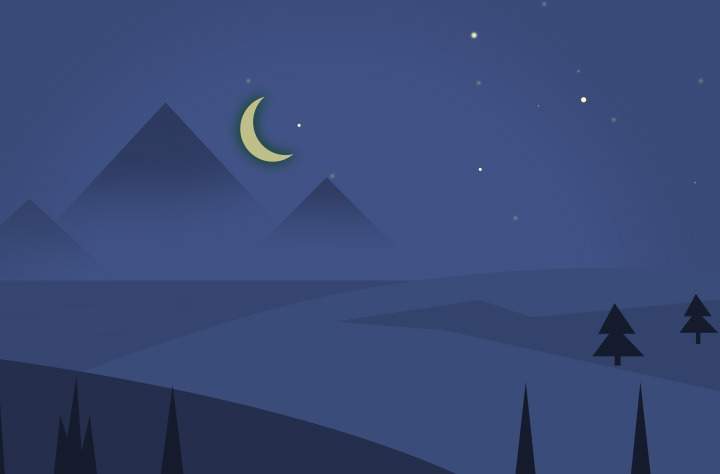
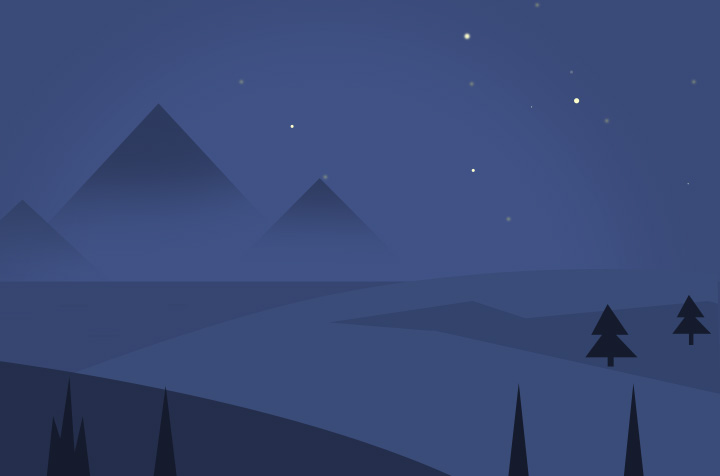
weixin

diff --git a/apps/loan/user-register/react/index.jsx b/apps/loan/user-register/react/index.jsx
@@ -114,6 +114,7 @@ const Register = React.createClass({
         return (
             <div className="register-box">
                 <div className="logo"><img src="images/logo.png"/></div>
+                <div className="logo-text"><img src="images/logo-text.png"/></div>
                 <div className="register-box-input">
                     <div className="phone-box input-box">
                         <input type="number" placeholder="请输入手机号进行注册登录" value={this.state.phoneNum}
@@ -127,6 +128,11 @@ const Register = React.createClass({
                         <input type={this.state.seeCode?"text":"password"} placeholder="密码要求8-16位字母与数字组合" value={this.state.password}
                                onChange={this.passwordChange}/>
                         <div className={this.state.seeCode?"eye on":"eye"} onClick={this.seeCodeChange}></div>
+                    </div>
+                    <div className="protocol">
+                        <div className="protocol-btn"></div>
+                        同意
+                        <a href="../protocol-borrowing/index.html" className="protocol-text">《放心花借款服务协议》</a>
                     </div>
                     <div className="next-btn" onClick={this.nextStepHandler}>立即注册</div>
                 </div>

diff --git a/apps/loan/user-register/less/index.less b/apps/loan/user-register/less/index.less
@@ -24,7 +24,38 @@ html{
   .register-box {
     position: relative;
     height: 100%;
+    .logo-text{
+      position: absolute;
+      top: 372px;
+      left: 0px;
+      width:100%;
+      img{
+        width:100%;
+      }
+    }
+    .protocol{
+      position: relative;
+      padding:20px 0 20px 44px;
+      height:32px;
+      line-height:32px;
+      font-size:24px;
+      color:#6195a4;
+      .protocol-btn{
+        position: absolute;
+        top:20px;
+        left:0;
+        width:32px;
+        height:32px;
+        background: url("../images/ico-right.png") no-repeat center;
+        float:left;
+      }
+      a{
+        color:#6aa4f0;
+        font-size:24px;
+        line-height:32px;
+      }
 
+    }
     .logo {
       position: absolute;
       top: 136px;

diff --git a/apps/loan/weixin-download/less/index.less b/apps/loan/weixin-download/less/index.less
@@ -10,7 +10,7 @@ html, body {
     .up {
       position:relative ;
       height:70%;
-      background:#3a4a79 url(../images/regist-bg.jpg) no-repeat bottom center;
+      background:#3a4a79 url(../images/download-bg.jpg) no-repeat bottom center;
       .logo {
         position: absolute;
         top:136px;
